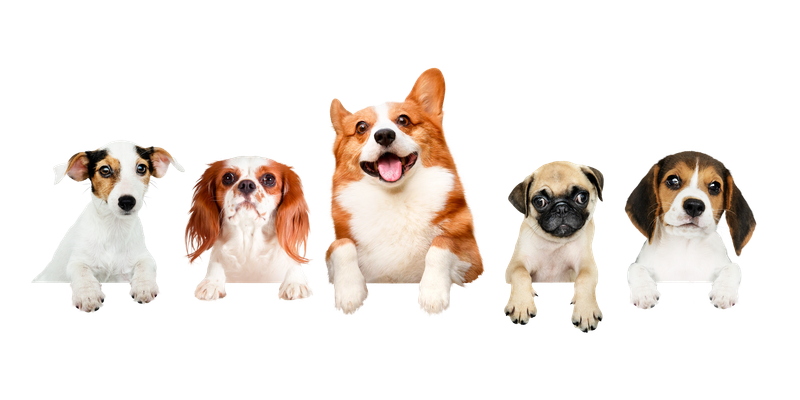
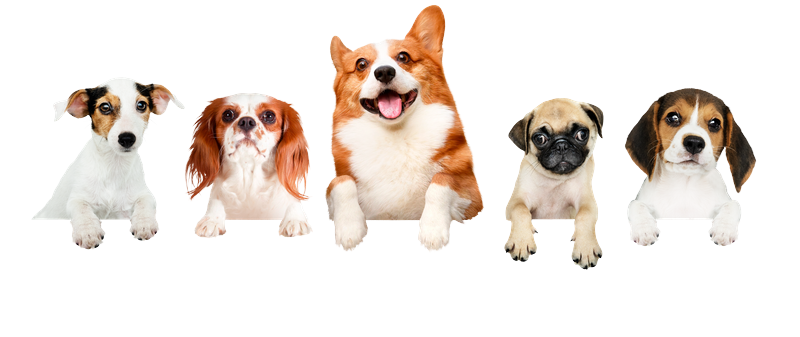
Finished!

Changed region(s): [[0.0312, 0.0, 0.9688, 0.8309], [0.875, 0.6825, 0.9375, 0.7715], [0.7812, 0.6825, 0.8438, 0.7715]]

diff --git a/src/components/results.css b/src/components/results.css
@@ -54,6 +54,7 @@
   height: 100%;
   background-color: rgb(118, 247, 251);
   padding: 10px;
+  z-index: -2;
 }
 
 .findDogHeader {
@@ -64,26 +65,9 @@
   -webkit-text-stroke-color: white;
 }
 
-.dogBannerImg {
-  position: absolute;
-  margin-bottom: 110px;
-  margin-left: 24px;
-  z-index: 0;
-  width: 1300px;
-}
-
 @media only screen and (max-width: 768px) {
-  .dogBannerImg {
-    width: 870px;
-    margin-bottom: 31px;
-  }
-
   .containerInput {
     grid-template-columns: 1fr;
-  }
-
-  .findDogBg {
-    width: 768px;
   }
 }
 

diff --git a/src/components/navModal.css b/src/components/navModal.css
@@ -1,13 +1,26 @@
 .modalContainer {
-  max-width: 200px;
-}
-
-.modalBackground {
-  width: 200px;
-  background-color: white;
+  margin-left: 330px;
 }
 
 .navLinkModal {
   font-family: "sour gummy", sans-serif;
   font-size: 20px;
+  list-style: none;
+}
+
+@media only screen and (max-width: 480px) {
+  .modalContainer {
+    margin-left: 10px;
+  }
+
+  .navModalList {
+    display: flex;
+    flex-direction: column;
+    align-items: center;
+    justify-content: center;
+  }
+
+  .navLinkModal {
+    font-size: 30px;
+  }
 }

diff --git a/src/components/nav.css b/src/components/nav.css
@@ -7,13 +7,17 @@
   align-items: center;
 }
 
+.navBackground {
+  background-color: rgb(118, 247, 251);
+}
+
 .nav__container {
   display: flex;
   justify-content: space-between;
   padding: 20px 40px 100px 40px;
   width: 100%;
   height: 100%;
-  background-color: rgb(118, 247, 251);
+  z-index: 0;
 }
 
 .logo__img {
@@ -91,6 +95,10 @@
     display: flex;
     align-items: center;
     justify-content: center;
+  }
+
+  .navBackground {
+    z-index: -10;
   }
 }
 

diff --git a/src/components/nav.tsx b/src/components/nav.tsx
@@ -6,6 +6,7 @@ function Nav() {
   const [openModal, setOpenModal] = useState(false);
   return (
     <>
+    <div className="navBackground">
       <div className="nav__container">
         <div className="logo">
           <img className="logo__img" src="src\assets\paw.png" />
@@ -32,6 +33,7 @@ function Nav() {
             <a className=" nav-link__primary">Contact</a>
           </ul>
         </div>
+      </div>
       </div>
     </>
   );

diff --git a/src/components/navModal.tsx b/src/components/navModal.tsx
@@ -7,7 +7,7 @@ function NavModal({ closeModal }) {
         <div className="titleCloseBtn">
           <button onClick={() => closeModal(false)}> X </button>
         </div>
-        <ul>
+        <ul className="navModalList">
           <li className="navLinkModal">Find a Pup</li>
           <li className="navLinkModal">Home</li>
           <li className="navLinkModal">Contact</li>

diff --git a/src/components/results.tsx b/src/components/results.tsx
@@ -22,7 +22,6 @@ function Results() {
       <div className="findDogBg">
         <h1 className="findDogHeader"> Browse Dogs on the Internet</h1>
         <button className="btn__find-dogs">Find Dogs</button>
-        <img className="dogBannerImg" src="src\assets\dogsInALine.png" />
       </div>
       <label htmlFor="dog-range" className="form-label">
         Number of Dogs
